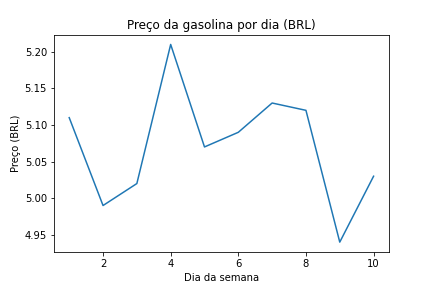
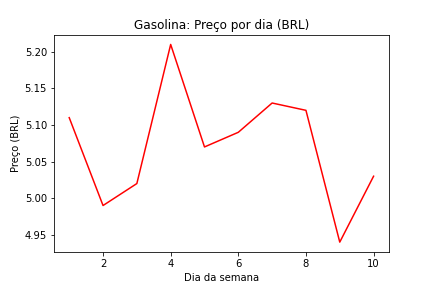
Adicionando mais 3 arquivos ao projeto na nova branch

diff --git a/gasolina.py b/gasolina.py
@@ -1,8 +1,8 @@
-# código de geração do gráfico 
+# código de geração do gráfico
 import pandas as pd
 import seaborn as sns
 
 gasolina_df = pd.read_csv('gasolina.csv', sep=',')
 
-grafico = sns.lineplot(data=gasolina_df, x="dia", y="venda", palette="pastel")
-grafico.set(title='Preço da gasolina por dia (BRL)', xlabel='Dia da semana', ylabel='Preço (BRL)');
+grafico = sns.lineplot(data=gasolina_df, x="dia", y="venda", color="red")
+grafico.set(title='Gasolina: Preço por dia (BRL)', xlabel='Dia da semana', ylabel='Preço (BRL)')
